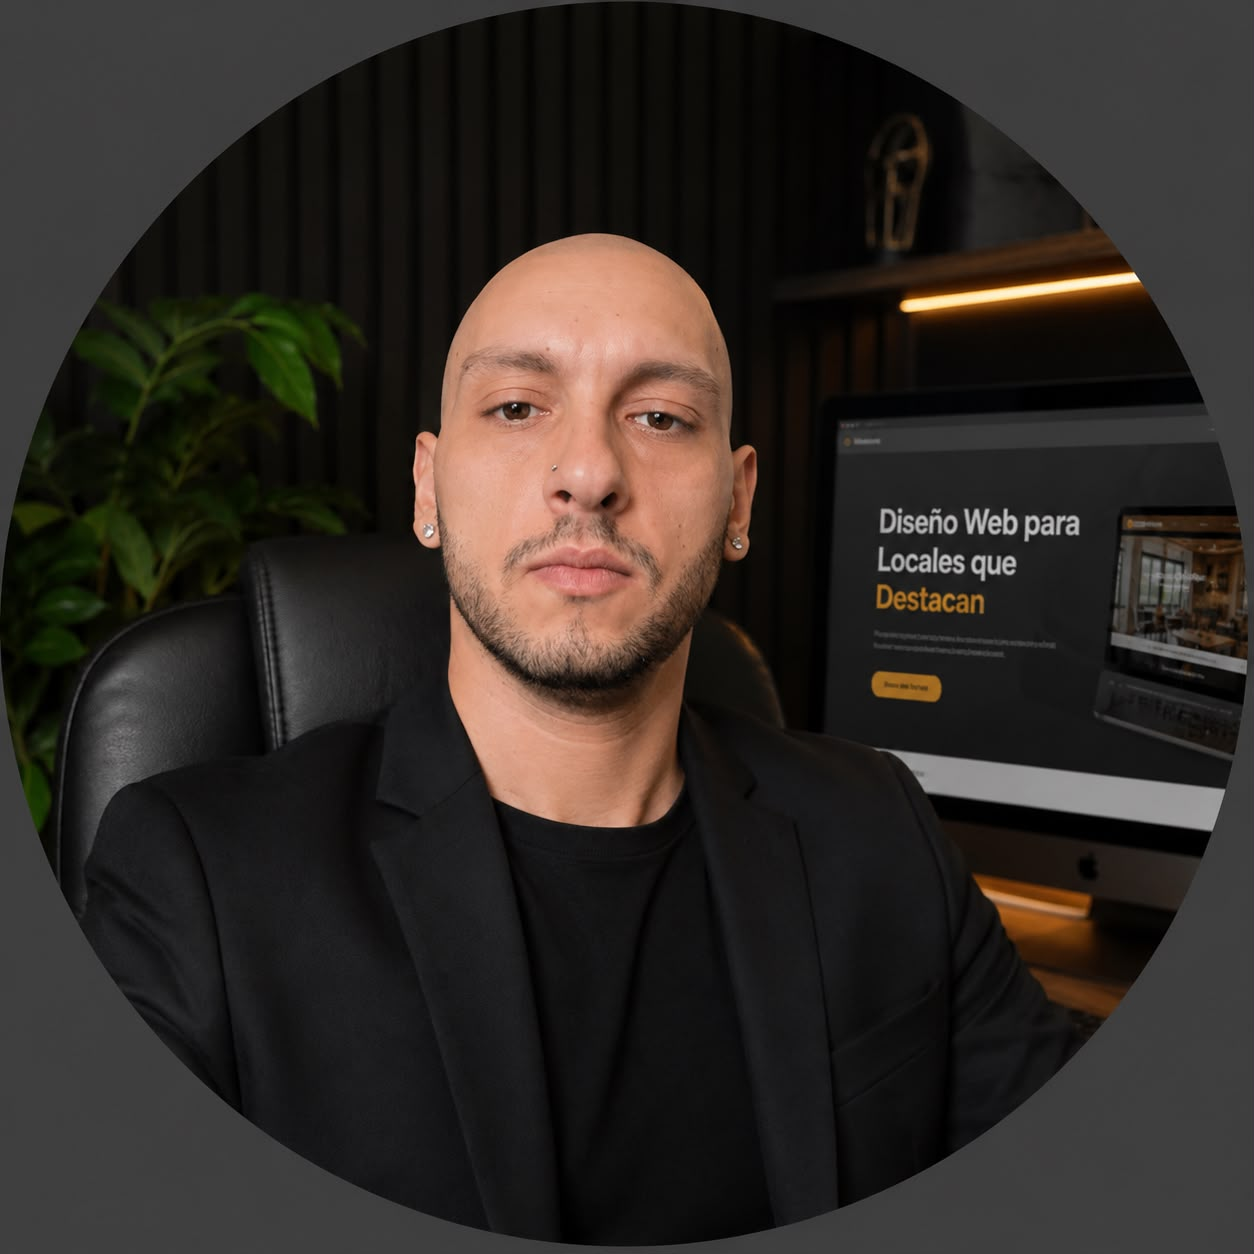
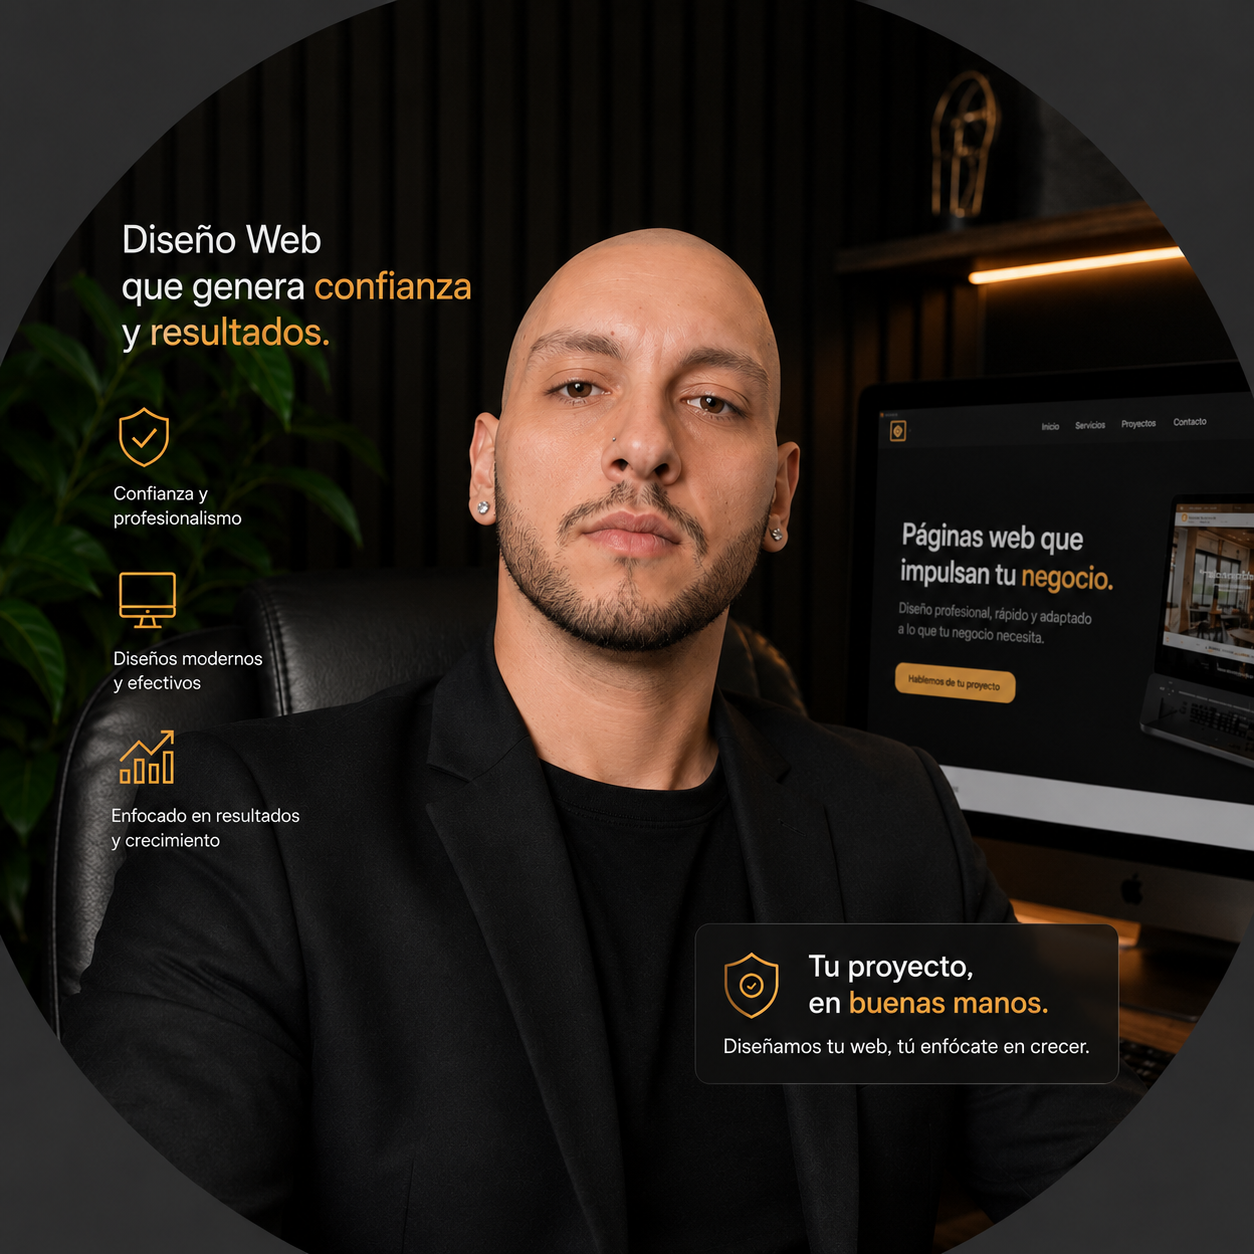
Sustituye la foto de "Sobre mí" por la versión con mensaje de marca
Amplía el tamaño del avatar circular para que el texto e iconos que
lleva incrustados la imagen se lean bien.

diff --git a/index.html b/index.html
@@ -361,7 +361,7 @@ section{padding:110px 0}
 .about-grid{display:grid;grid-template-columns:.6fr 1.4fr;gap:56px;align-items:center}
 @media(max-width:900px){.about-grid{grid-template-columns:1fr;gap:32px;text-align:center}}
 .about-photo{display:flex;justify-content:center}
-.about-photo img{width:220px;height:220px;border-radius:50%;object-fit:cover;border:1px solid var(--border);box-shadow:var(--shadow-lg)}
+.about-photo img{width:clamp(240px,26vw,340px);height:clamp(240px,26vw,340px);border-radius:50%;object-fit:cover;border:1px solid var(--border);box-shadow:var(--shadow-lg)}
 .about-copy h2{font-size:clamp(26px,3.6vw,36px);font-weight:800;margin-bottom:16px}
 .about-copy p{color:var(--muted);margin-bottom:22px;max-width:560px}
 @media(max-width:900px){.about-copy p{margin-left:auto;margin-right:auto}}
